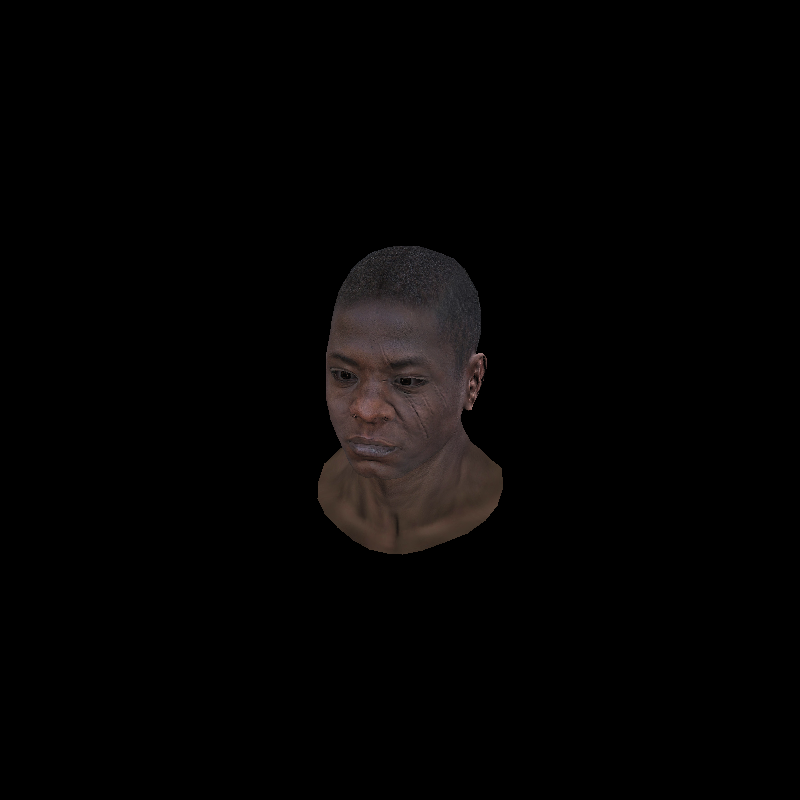
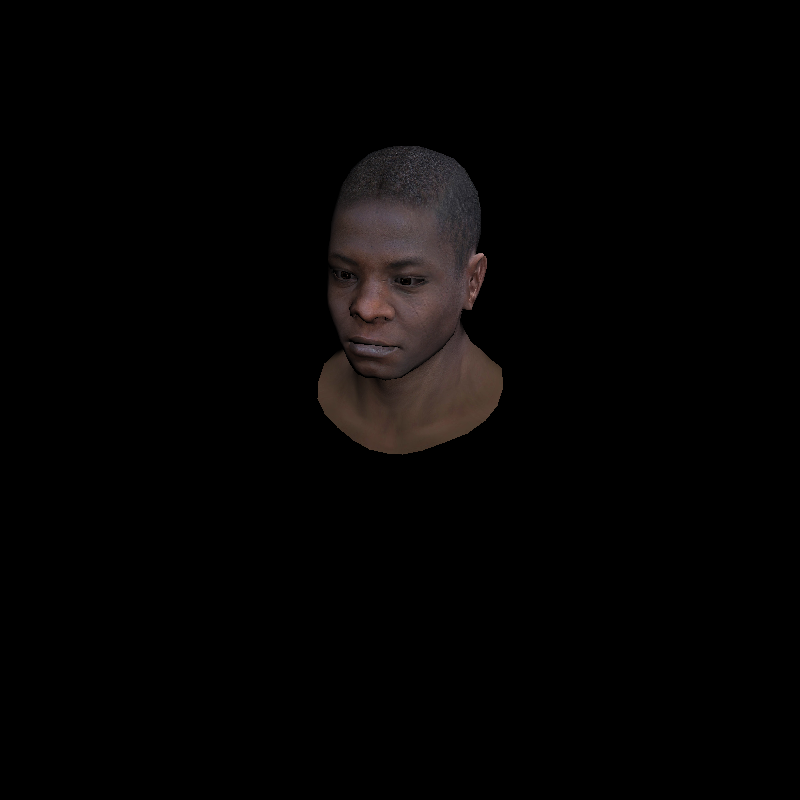
Move code into src/

Changed region(s): [[0.375, 0.1562, 0.625, 0.7188]]

diff --git a/src/main.cc b/src/main.cc
@@ -49,15 +49,11 @@ int main(int argc, char **argv) {
     const Mat4f projection = Transform::projection((eye - center).length());
     const Mat4f mvp = projection * model_view;
 
-    Shaders::Phong shader;
+    Shaders::Texture shader;
     shader.uniform_viewport = viewport;
     shader.uniform_mvp = mvp;
     shader.uniform_mvp_inv_T = mvp.inversed().transposed();
     shader.uniform_light_direction = (mvp * Vec4f(light_direction, 0)).xyz().normalize();
-
-    shader.uniform_ka = 5;
-    shader.uniform_kd = 1;
-    shader.uniform_ks = 0.6;
 
     for (int m = 1; m < argc; ++m) {
         model = new Obj::Model(argv[m]);
@@ -72,7 +68,7 @@ int main(int argc, char **argv) {
     }
 
     image.flip_vertically(); // have the origin at the bottom left corner of the image
-    image.write_tga_file("output.tga");
+    image.write_tga_file("../output.tga");
 
     delete[] z_buffer;
     return 0;
